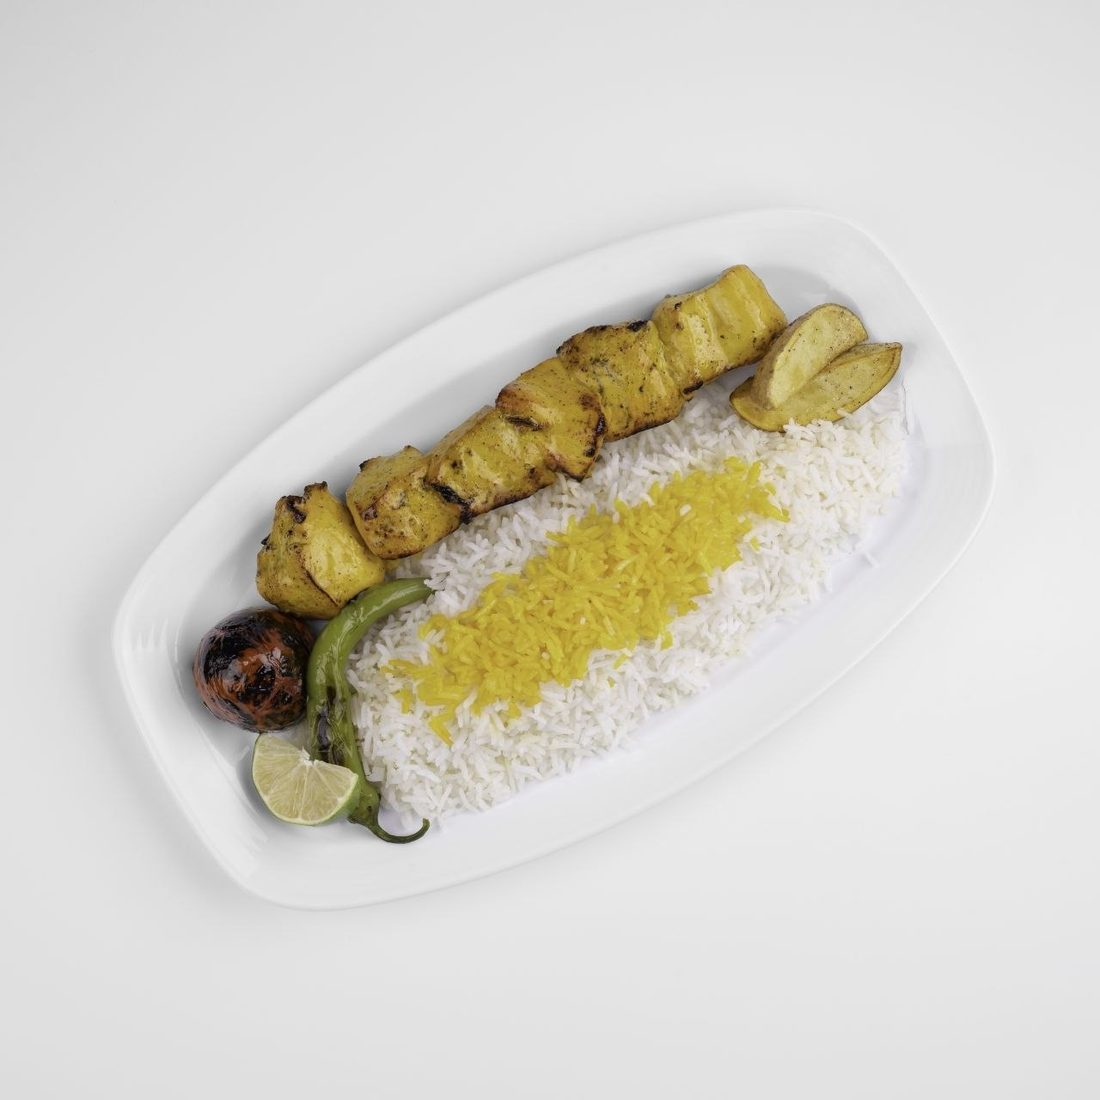
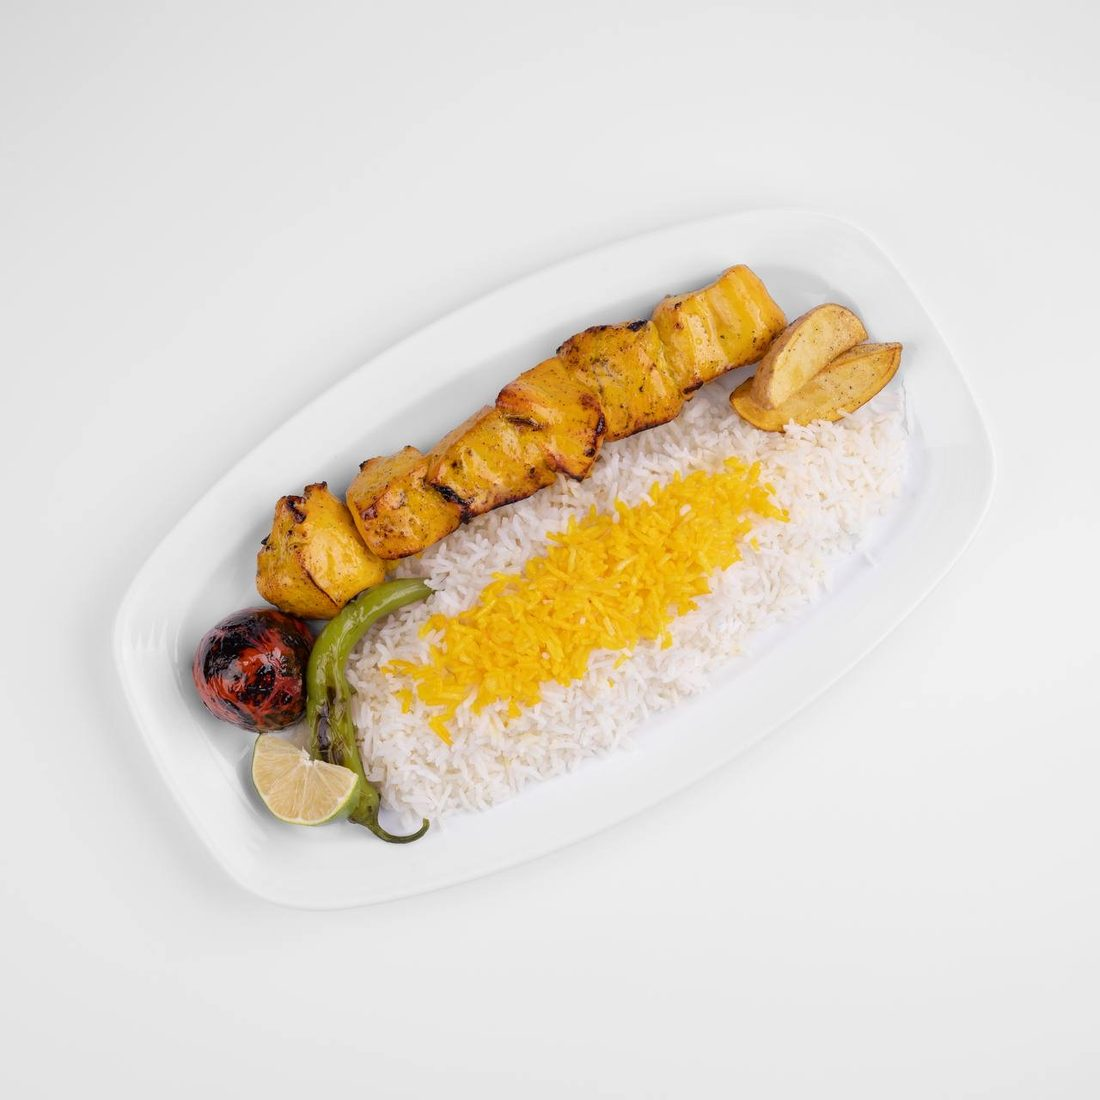
Expand dish carousel with 3 new dishes, refresh 2 photos
Add Ghormeh Sabzi, Kabab Koobideh, and Gheimeh as new carousel
entries. Also replace the generic "Saffron Chicken" card with its
proper name and a matching photo (Zereshk Polo ba Morgh), and swap
in a more consistent Joojeh Kabab photo — both new photos share the
same plating/lighting style as the rest of the set. Carousel now
has 7 dishes.

Claude-Session: https://claude.ai/code/session_01FHSR21Bt2Gz1NKPvQT2hEk

Changed region(s): [[0.1545, 0.2164, 0.8345, 0.7727]]

diff --git a/index.html b/index.html
@@ -75,10 +75,10 @@
               </figcaption>
             </figure>
             <figure class="carousel-item">
-              <img src="images/dish-chicken-saffron-rice.jpg" alt="Saffron chicken with rice, raisins, and eggplant">
+              <img src="images/dish-chicken-saffron-rice.jpg" alt="Zereshk Polo ba Morgh — saffron rice with barberries and chicken">
               <figcaption>
-                <h3>Saffron Chicken</h3>
-                <p>With jeweled rice &amp; eggplant</p>
+                <h3>Zereshk Polo ba Morgh</h3>
+                <p>Saffron rice with barberries &amp; chicken</p>
               </figcaption>
             </figure>
             <figure class="carousel-item">
@@ -93,6 +93,27 @@
               <figcaption>
                 <h3>Joojeh Kabab</h3>
                 <p>Saffron chicken skewer with rice</p>
+              </figcaption>
+            </figure>
+            <figure class="carousel-item">
+              <img src="images/dish-ghormeh-sabzi.jpg" alt="Ghormeh Sabzi — Persian herb and kidney bean stew with rice">
+              <figcaption>
+                <h3>Ghormeh Sabzi</h3>
+                <p>Herb &amp; kidney bean stew</p>
+              </figcaption>
+            </figure>
+            <figure class="carousel-item">
+              <img src="images/dish-kabab-koobideh.jpg" alt="Kabab Koobideh — Persian minced meat skewer with rice">
+              <figcaption>
+                <h3>Kabab Koobideh</h3>
+                <p>Persian minced meat skewer</p>
+              </figcaption>
+            </figure>
+            <figure class="carousel-item">
+              <img src="images/dish-gheimeh.jpg" alt="Gheimeh — Persian split pea stew with rice">
+              <figcaption>
+                <h3>Gheimeh</h3>
+                <p>Persian split pea stew</p>
               </figcaption>
             </figure>
           </div>
